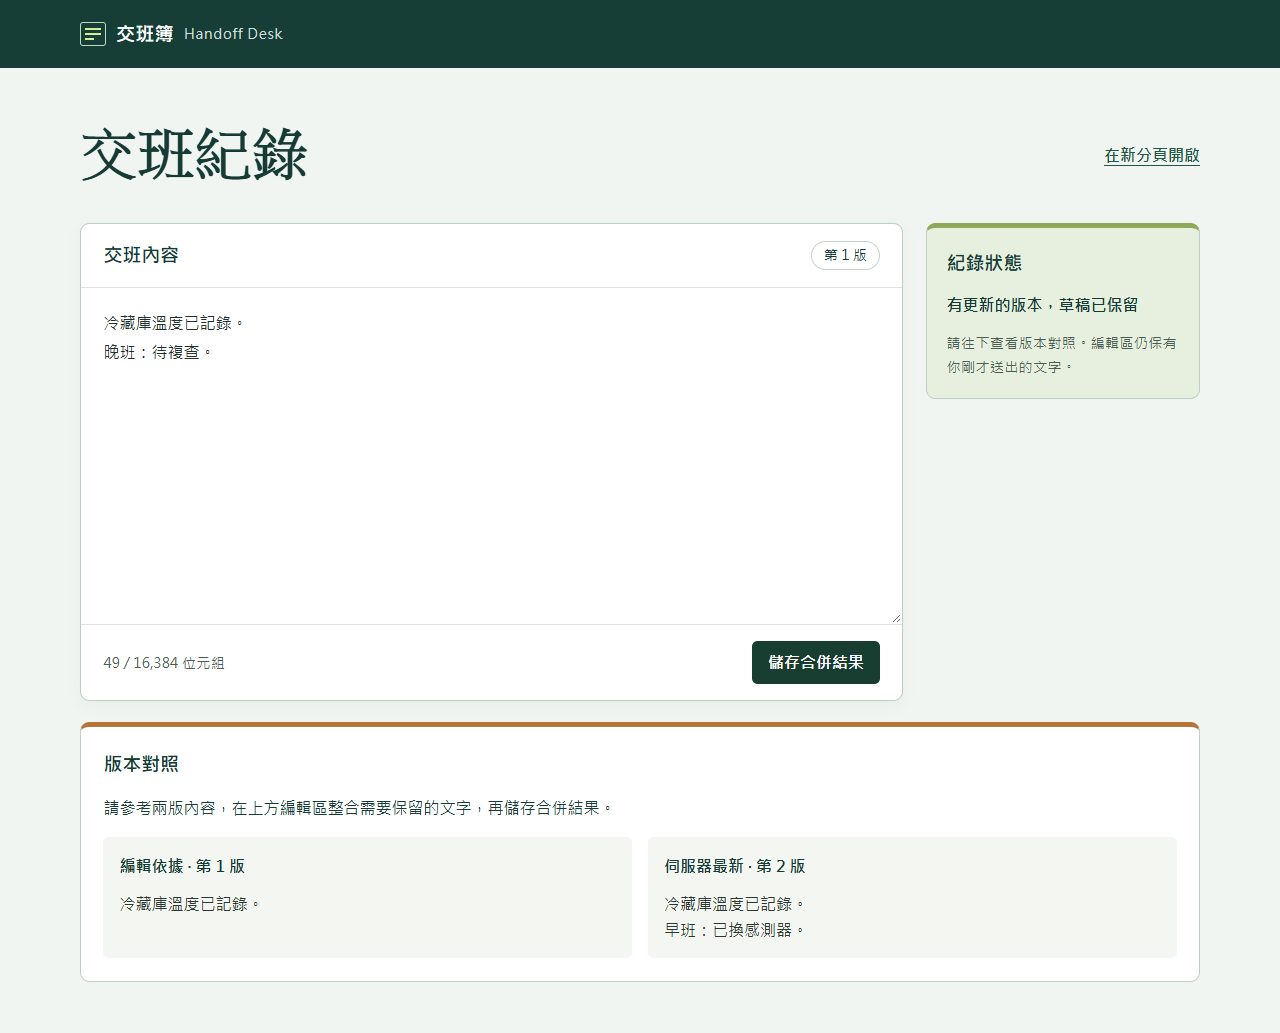
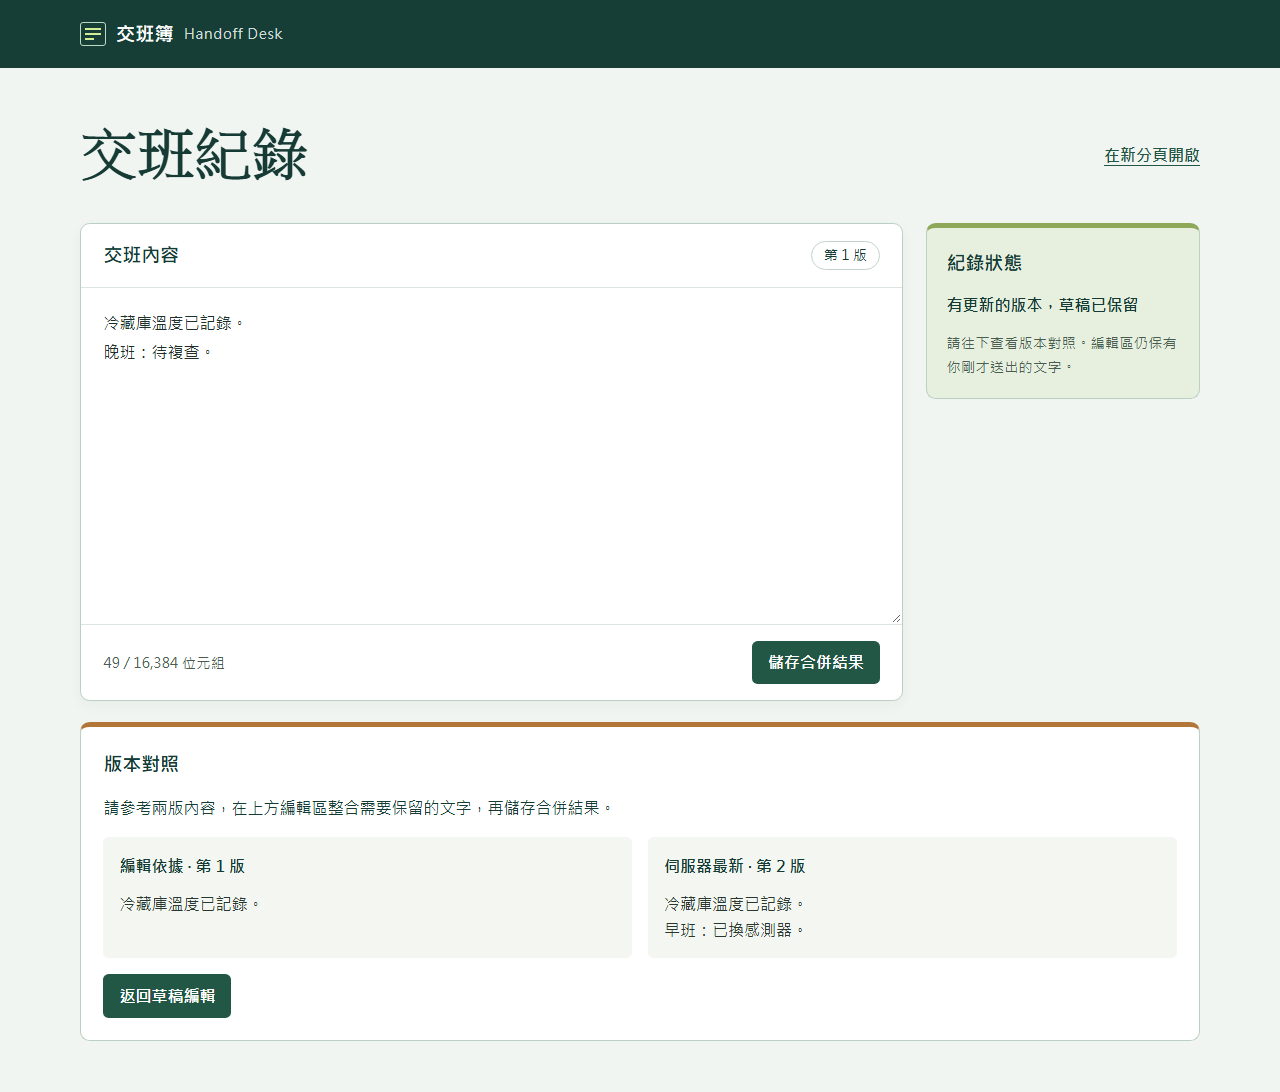
Keep keyboard focus through revision conflicts and retry paths

diff --git a/tests/desk.spec.js b/tests/desk.spec.js
@@ -1,4 +1,5 @@
 import { expect, test } from "@playwright/test";
+import { replay } from "focus-receipt/focus.mjs";
 
 const editor = page => page.getByRole("textbox", { name: "交班內容" });
 const action = (page, name) => page.getByRole("button", { name, exact: true });
@@ -10,6 +11,39 @@ async function create(page, text) {
   await expect(page.getByRole("status")).toHaveText("已儲存第 1 版");
 }
 
+test("keyboard review returns to the preserved draft and persists the merge", async ({ page, context, request }) => {
+  await create(page, "交接原稿");
+  const peer = await context.newPage();
+  await peer.goto(page.url());
+  await expect(editor(peer)).toHaveValue("交接原稿");
+  await page.bringToFront();
+  await editor(page).fill("交接原稿\n早班盤點");
+  await action(page, "儲存修改").click();
+  await expect(page.getByRole("status")).toHaveText("已儲存第 2 版");
+
+  async function press(...checks) {
+    const steps = checks.map(([key, role, name]) => ({ key, role, name }));
+    const report = await replay(peer, steps);
+    expect(report.passed, JSON.stringify(report.checks.at(-1))).toBe(true);
+  }
+  await peer.bringToFront();
+  await press(["Tab", "link", "在新分頁開啟"], ["Tab", "textbox", "交班內容"]);
+  await peer.keyboard.press("Control+End");
+  await peer.keyboard.insertText("\n晚班複查");
+  await press(["Tab", "button", "儲存修改"], ["Enter", "heading", "版本對照"]);
+  await expect(peer.locator("#latest-text")).toHaveText("交接原稿\n早班盤點");
+  await press(["Tab", "button", "返回草稿編輯"], ["Enter", "textbox", "交班內容"]);
+  await expect(editor(peer)).toHaveValue("交接原稿\n晚班複查");
+  await peer.keyboard.press("Control+End");
+  await peer.keyboard.insertText("\n早班盤點");
+  await press(["Tab", "button", "儲存合併結果"], ["Enter", "textbox", "交班內容"]);
+  await expect(peer.getByRole("status")).toHaveText("已儲存第 3 版");
+  const id = new URL(peer.url()).searchParams.get("note");
+  const revision = await request.get("/api/notes/" + id + "/revisions/3");
+  expect(revision.status()).toBe(200);
+  expect(await revision.text()).toBe("交接原稿\n晚班複查\n早班盤點");
+});
+
 test("two editors resolve a stale draft, including another update during review", async ({ page, context, request }, testInfo) => {
   const original = "冷藏庫溫度已記錄。";
   const morning = original + "\n早班：已換感測器。";
@@ -20,9 +54,11 @@ test("two editors resolve a stale draft, including another update during review"
   const peer = await opened;
   await expect(editor(peer)).toHaveValue(original);
 
+  await page.bringToFront();
   await editor(page).fill(morning);
   await action(page, "儲存修改").click();
   await expect(page.getByRole("status")).toHaveText("已儲存第 2 版");
+  await peer.bringToFront();
   await editor(peer).fill(night);
   await action(peer, "儲存修改").click();
   await expect(peer.getByText("伺服器最新 · 第 2 版")).toBeVisible();
@@ -34,9 +70,11 @@ test("two editors resolve a stale draft, including another update during review"
   const firstMerge = morning + "\n晚班：待複查。";
   const morningUpdate = morning + "\n早班：備品在二樓。";
   await editor(peer).fill(firstMerge);
+  await page.bringToFront();
   await editor(page).fill(morningUpdate);
   await action(page, "儲存修改").click();
   await expect(page.getByRole("status")).toHaveText("已儲存第 3 版");
+  await peer.bringToFront();
   await action(peer, "儲存合併結果").click();
   await expect(peer.getByText("伺服器最新 · 第 3 版")).toBeVisible();
   await expect(peer.locator("#base-text")).toHaveText(morning);
@@ -48,6 +86,7 @@ test("two editors resolve a stale draft, including another update during review"
   await action(peer, "儲存合併結果").click();
   await expect(peer.getByRole("status")).toHaveText("已儲存第 4 版");
   await expect(peer.locator("#conflict")).toBeHidden();
+  await page.bringToFront();
   await page.reload();
   await expect(editor(page)).toHaveValue(merged);
   const id = new URL(page.url()).searchParams.get("note");
@@ -80,9 +119,49 @@ test("keeps input when a save cannot reach the API", async ({ page }) => {
   await action(page, "儲存修改").click();
   await expect(page.getByRole("status")).toContainText("重試");
   await expect(editor(page)).toHaveValue("未傳出的草稿");
+  await expect(action(page, "儲存修改")).toBeFocused();
   await page.unroute("**/api/notes/*");
-  await action(page, "儲存修改").click();
+  await page.keyboard.press("Enter");
   await expect(page.getByRole("status")).toHaveText("已儲存第 2 版");
+  await expect(editor(page)).toBeFocused();
+});
+
+test("keyboard retry recovers the editor after a failed initial read", async ({ page }) => {
+  await create(page, "冷藏庫");
+  await page.route("**/api/notes/*", route => route.abort());
+  await page.reload();
+  await expect(action(page, "重新讀取")).toBeVisible();
+  await page.keyboard.press("Tab");
+  await expect(action(page, "重新讀取")).toBeFocused();
+  await page.keyboard.press("Enter");
+  await expect(action(page, "重新讀取")).toBeEnabled();
+  await expect(action(page, "重新讀取")).toBeFocused();
+  await page.unroute("**/api/notes/*");
+  await page.keyboard.press("Enter");
+  await expect(editor(page)).toBeFocused();
+  await expect(editor(page)).toHaveValue("冷藏庫");
+});
+
+test("a delayed save preserves focus when the user has moved elsewhere", async ({ page }) => {
+  await create(page, "原稿");
+  let release;
+  const gate = new Promise(resolve => { release = resolve; });
+  await page.route("**/api/notes/*", async route => {
+    await gate;
+    await route.continue();
+  });
+  await editor(page).fill("延後送出");
+  const sent = page.waitForRequest(req => req.method() === "PUT");
+  await action(page, "儲存修改").click();
+  await sent;
+  const link = page.getByRole("link", { name: "在新分頁開啟" });
+  try {
+    await link.focus();
+  } finally {
+    release();
+  }
+  await expect(page.getByRole("status")).toHaveText("已儲存第 2 版");
+  await expect(link).toBeFocused();
 });
 
 test("missing and malformed links cannot create or overwrite a note", async ({ page }) => {

diff --git a/ui/desk.js b/ui/desk.js
@@ -55,7 +55,15 @@ function showSharedGuide() {
   $("guide").textContent = "在新分頁開啟同一份紀錄，即可模擬另一位接班者編輯。";
 }
 
+function focusAfterRequest(origin, target) {
+  if (origin && (document.activeElement === origin || document.activeElement === document.body)) {
+    target.focus();
+  }
+}
+
 async function openNote() {
+  const retry = $("retry");
+  const origin = document.activeElement === retry ? retry : null;
   busy = true;
   render();
   try {
@@ -70,11 +78,14 @@ async function openNote() {
   } finally {
     busy = false;
     render();
+    focusAfterRequest(origin, base ? draft : retry);
   }
 }
 
 save.addEventListener("click", async () => {
   if (save.disabled) return;
+  const origin = document.activeElement === save ? save : null;
+  let target = save;
   busy = true;
   render();
   const reviewed = latest || base;
@@ -91,6 +102,7 @@ save.addEventListener("click", async () => {
       latest = newer;
       status("有更新的版本，草稿已保留");
       $("guide").textContent = "請往下查看版本對照。編輯區仍保有你剛才送出的文字。";
+      target = $("comparison");
       return;
     }
     if (!response.ok) throw new Error("儲存失敗，請稍後重試。");
@@ -106,11 +118,13 @@ save.addEventListener("click", async () => {
     latest = null;
     status("已儲存第 " + saved.rev + " 版");
     showSharedGuide();
+    target = draft;
   } catch (error) {
     status(error instanceof TypeError ? "連線中斷，請確認連線後重試。" : error.message);
   } finally {
     busy = false;
     render();
+    focusAfterRequest(origin, target);
   }
 });
 
@@ -127,6 +141,7 @@ window.addEventListener("beforeunload", event => {
   }
 });
 $("retry").addEventListener("click", openNote);
+$("resume").addEventListener("click", () => draft.focus());
 if (noteId === null) {
   status("等待建立");
   render();

diff --git a/ui/index.html b/ui/index.html
@@ -20,9 +20,10 @@
       <aside aria-labelledby="state-heading"><h2 id="state-heading">紀錄狀態</h2><p id="status" role="status" aria-live="polite">準備中…</p><p id="guide">首次儲存後，可在新分頁開啟同一份紀錄。</p><button id="retry" hidden>重新讀取</button></aside>
     </div>
     <section id="conflict" hidden aria-labelledby="comparison">
-      <h2 id="comparison">版本對照</h2>
+      <h2 id="comparison" tabindex="-1">版本對照</h2>
       <p>請參考兩版內容，在上方編輯區整合需要保留的文字，再儲存合併結果。</p>
       <div class="columns"><section><h3 id="base-label"></h3><pre id="base-text"></pre></section><section><h3 id="latest-label"></h3><pre id="latest-text"></pre></section></div>
+      <button id="resume">返回草稿編輯</button>
     </section>
   </main>
   <script type="module" src="/desk.js"></script>

diff --git a/playwright.config.js b/playwright.config.js
@@ -10,10 +10,11 @@ mkdirSync(databaseDir, { recursive: true });
 
 export default defineConfig({
   testDir: "./tests",
-  use: {
-    baseURL: "http://127.0.0.1:4177",
-    launchOptions: { executablePath: process.env.BROWSER_PATH || undefined }
-  },
+  use: { baseURL: "http://127.0.0.1:4177" },
+  projects: [
+    { name: "chromium", use: { browserName: "chromium", launchOptions: { executablePath: process.env.BROWSER_PATH || undefined } } },
+    { name: "firefox", use: { browserName: "firefox" } }
+  ],
   webServer: [
     {
       command: 'dotnet "' + assembly + '" --urls http://127.0.0.1:5087',

diff --git a/ui/desk.css b/ui/desk.css
@@ -41,6 +41,7 @@ aside { padding: 1.25rem; border-top: .32rem solid #8ea85a; background: #e7efdf;
 #status { font-weight: 650; margin: .85rem 0; }
 #guide { margin: .6rem 0 0; }
 #retry { margin-top: .8rem; }
+#resume { margin-top: 1rem; }
 #conflict { padding: 1.4rem; margin-top: 1.3rem; border-top: .32rem solid #b27639; }
 .columns { display: grid; grid-template-columns: repeat(2,minmax(0,1fr)); gap: 1rem; }
 .columns section { padding: 1rem; background: #f4f6f2; border-radius: .35rem; }

diff --git a/README.md b/README.md
@@ -38,17 +38,23 @@ npm run dev
 
 此示範透過綁定本機的 Vite 代理連線至 SQLite API，信任同一台電腦上的使用者。草稿保存在目前分頁，成功儲存後才會寫入資料庫。關閉含修改的分頁時，編輯器會向瀏覽器申請離開提示。
 
+## 用鍵盤完成一次衝突合併
+
+在較早開啟的分頁修改草稿，以 Tab 移到「儲存修改」並按 Enter。若另一班已寫入新版，焦點會落在「版本對照」標題。閱讀兩版內容後，按 Tab 到「返回草稿編輯」，再按 Enter 即可繼續編輯。合併成功時焦點回到編輯區。若送出時斷線，焦點回到儲存按鈕，恢復連線後可直接按 Enter 重試。
+
+測試先讓早班存入第 2 版，再以晚班的舊草稿觸發 HTTP 412。它使用作品集內的 Focus Receipt 比對八次按鍵後的焦點，最後從 SQLite 歷史 API 讀回第 3 版，核對兩班文字都已保存。另一個測試延後伺服器回應，確認等待期間已移到其他連結的焦點會留在原處。[鍵盤整合測試](tests/desk.spec.js) · [Focus Receipt 固定版本](https://github.com/peca12968/focus-receipt/tree/e339536fcfaba6cd909cd43234a3ebd723e23eb8)
+
 ## 自動化驗證
 
 保留已建置的 API，先結束上述兩個示範服務，再在前端目錄執行以下指令。Playwright 會啟動獨立 API 與前端預覽，每次執行使用新的本機測試資料庫。
 
 ```sh
 npm run build
-npx playwright install chromium
+npx playwright install chromium firefox
 npm test
 ```
 
-四個瀏覽器測試涵蓋連續兩次編輯衝突、360 像素寬度與 UTF-8 大小邊界、斷線重試及錯誤連結。衝突測試先後由兩頁寫入，最後從歷史 API 驗證全部四版原文。GitHub Actions 在 Ubuntu 使用固定提交的後端重跑相同測試。[測試](tests/desk.spec.js) · [CI](.github/workflows/ci.yml)
+七個案例分別在 Chromium 與 Firefox 執行，涵蓋鍵盤合併、連續兩次編輯衝突、360 像素寬度與 UTF-8 大小邊界、斷線儲存與重新讀取、等待期間的焦點及錯誤連結。連續衝突測試先後由兩頁寫入，最後從歷史 API 驗證全部四版原文。GitHub Actions 在 Ubuntu 使用固定提交的後端重跑相同測試。[測試](tests/desk.spec.js) · [CI](.github/workflows/ci.yml)
 
 **履歷用語**　以 JavaScript、HTTP ETag 與 Playwright 實作交班編輯器，保留衝突草稿並提供版本對照，透過兩個瀏覽器分頁與 SQLite 整合測試驗證連續衝突後的四版歷史。
 
